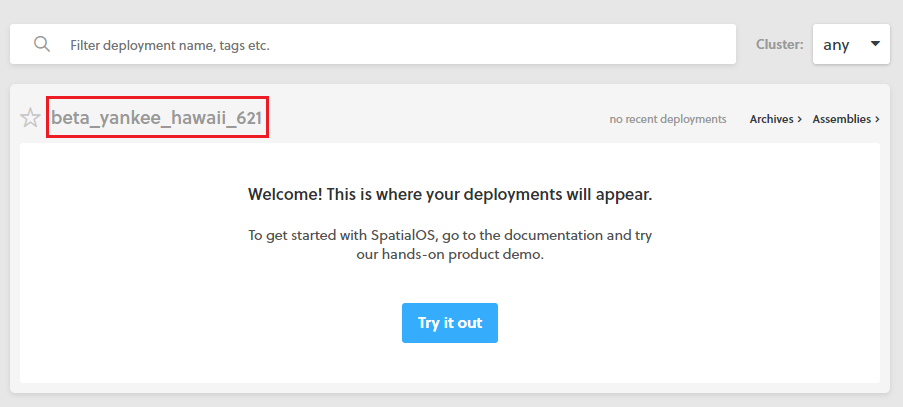
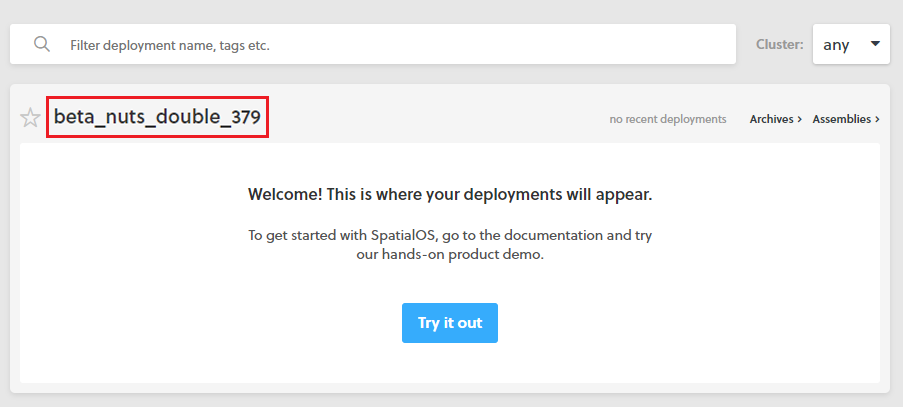
Added new Deployment Manager tutorial and several images.

Changed region(s): [[0.031, 0.2654, 0.3101, 0.3243]]

diff --git a/SpatialGDK/Documentation/content/tutorials/deployment-manager/tutorial-deploymentmgr-configure.md b/SpatialGDK/Documentation/content/tutorials/deployment-manager/tutorial-deploymentmgr-configure.md
@@ -1,0 +1,95 @@
+## Step 5: Configure the Deployment Manager
+
+There are two parts to configuring the Deployment Manager:
+
+* Edit the `spatialos.json` file.
+* Build the Deployment Manager.
+
+### Edit the spatialos.json file
+
+Make sure you are editing the `spatialos.json` in the Deployment Manager repository, and not the one in the Example Project repository. <br/>
+These are the same steps you took as part of [Get started 3: Set up the Example Project ]({{urlRoot}}/content/get-started/exampleproject#Launchaclouddeployment), but for the Deployment Manager, rather than the Example Project. 
+
+Every SpatialOS project has a spatialos.json file, so there may be several `spatialos.json` files on your machine. 
+
+When you signed up for SpatialOS, your account was automatically given a SpatialOS cloud organization name and a SpatialOS cloud project name, both of which are the same generated name.
+
+1. Find this name by going to the Console at <https://console.improbable.io>. The name should look something like beta_randomword_anotherword_randomnumber. In the example below, it’s beta_nuts_double_379. 
+   ![img]({{assetRoot}}assets/tutorial/project-name.png)
+   _Image: The SpatialOS Console with your SpaitalOS cloud project name highlighted._</br>
+
+
+1. In File Explorer, navigate to `\deployment-manager\config\` and open the `spatialos.json` file in a text editor of your choice.
+1. Replace the `projectName` field with the SpatialOS cloud project name shown in the Console. This tells SpatialOS which SpatialOS cloud project you intend to upload to.
+
+Your `spatialos.json` file should look like this: 
+
+```
+{
+    "configurationVersion": "0.1",
+    "projectName": "beta_nuts_double_379",
+    "schemaDescriptor": "../tmp/schema.descriptor",
+    "clientWorkers": [
+    ],
+    "serverWorkers": [
+      "deployment_manager.json"
+    ]
+  }
+```
+
+Where `beta_nuts_double_379` is your SpatialOS cloud project name. 
+
+### Build the Deployment Manager
+
+1. In File Explorer, navigate to your Deployment Manager repository
+1. Select **File.**
+1. Select **Open Windows Powershell**, then select **Open Windows Powershell as administrator.**
+1. In Powershell, run the following SpatialOS CLI commands: 
+	- `./build-nuget-packages.ps1`
+	- `./generate-servicce-account-token.ps1 <project name> <token life time in days>`
+
+Where `<project name>` is your SpatialOS project name and `<token life time in days>` is the the number of days you want your token to remain valid for. 
+
+### Edit the config.json file
+
+Next, you configure the Deployment Manager. 
+
+In this example, you must tell the Deployment Manager:
+
+*  the type of client-worker it can deploy - `UnrealClient` for this example, but this can be any client type you have set up for your project
+* the number of deployments you want it to allow to run concurrently - 2 for this example
+* which worker assembly to use for the deployments - the name for which you created in step 4, above.
+
+Leave the other configuration file settings to the default, for this example.  For more information about the other Deployment Manager configuration options, see the Deployment Manager [documentation on GitHub](link to readme). 
+
+To configure the Deployment Manager, you edit its configuration file. 
+To do this, 
+
+1. Navigate to the Deployment Manager repository you cloned in step 1.
+1. Using a text editor of your choice, open `\deployment-manager\DeploymentManager\config.json`. 
+
+In the `config.json`, you need to change the following lines: 
+
+- `"ClientType": "YourClient"`, to `"ClientType": "UnrealClient"`,
+- `"NumberOfDeployments": 1`, to `"NumberOfDeployments": 2`,
+- `"AssemblyName": "YourAssembly"`, to `"AssemblyName": "<assembly_name>)"`, where `<assembly_name>` is the name you gave to your assembly in [Step 4](#Step5ConfiguretheDeploymentManager) 
+
+Your `config.json` file should look like this: 
+
+```
+{}
+  "TokenLifetimeDays": 7,
+  "ClientType": "UnrealClient",
+  "MaxNumberOfClients": 100,
+  "DeploymentPrefix": "session",
+  "NumberOfDeployments": 2,
+  "AssemblyName": "<assembly_name>",
+  "DeploymentTags": [ "dev_login" ],
+  "RegionCode": "EU",
+  "DeploymentIntervalSeconds": 5
+}
+```
+
+When you are done, save and close your `config.json` file. 
+
+**Next**: [Launch a session-based cloud deployment]({{urlRoot}}/content/tutorials/deployment-manager/tutorial-deploymentmgr-launch)

diff --git a/SpatialGDK/Documentation/content/tutorials/deployment-manager/tutorial-deploymentmgr-play.md b/SpatialGDK/Documentation/content/tutorials/deployment-manager/tutorial-deploymentmgr-play.md
@@ -1,0 +1,67 @@
+## Step 7: Play your game
+
+1.  select **session_0** from the deployment list. This opens the deployment overview screen.
+2. select **LAUNCH** on the left of the page.
+![img]({{assetRoot}}assets/deployment-manager/deploymentmgr-consoleoverview.png)<br/>
+Image: *The SpatialOS Console with the game client* ***LAUNCH*** *button* ***Launch*** *highlighted.*<br/>
+3. select the **Launch** button that appears in the center of the page to open the [SpatialOS Launcher](https://docs.improbable.io/reference/13.7/shared/operate/launcher). 
+![img]({{assetRoot}}assets/deployment-manager/deploymentmgr-launch.png)<br/>
+_Image: *The SpatialOS Console* ***Launch a client*** *pop-up window._*
+
+The Launcher automatically downloads a game client for this deployment and runs it on your local machine.
+
+Once the game client has launched, you should see the Example Project start screen
+
+Select **QUICK JOIN** to join one of your sessions or select **BROWSE...** to choose from a list of currently running sessions. 
+
+The default game controls are listed below:
+
+| **Key Binding**   | **Function**             |
+| ----------------- | ------------------------ |
+| W,A,S,D           | Standard movement        |
+| Space             | Jump                     |
+| Shift             | Sprint                   |
+| Left ctrl         | Crouch                   |
+| Left click        | Fire                     |
+| Right click       | Weapon zoom/ iron sights |
+| Number keys 1 - 0 | Select weapon            |
+
+![img]({{assetRoot}}assets/deployment-manager/deploymentmgr-startscreen.png)_Image: *The Example Project* *start* *screen._*
+
+### Share your deployment
+
+To share your deployment: 
+
+1. Open the console and select your **session_0** deployment. 
+1. Select **Share** on the right-hand side of the screen to see the Share Application screen
+1. In the Share Application screen, accept the terms of service to activate the **Get Share URL** button<br/>
+![img]({{assetRoot}}assets/deployment-manager/deploymentmgr-share.png)<br/>
+_Image: The SpatialOS Console Share Application pop-up window, showing terms of service_<br/>
+1. After you have accepted the terms of service, you can send your Share Token URL to other people so they can try out your game. <br/>
+![img]({{assetRoot}}assets/deployment-manager/deploymentmgr-share2.png)<br/>
+_Image: The SpatialOS Console Share Application screen with terms of service accepted_<br/>
+
+## Troubleshooting
+
+<%(#Expandable title="I can see my deployments in my game client, but I can’t join any of them")%>
+
+If you can see your deployments when you select **BROWSE**  but the **QUICK JOIN** button is greyed out, you might need to add the `status_lobby` tag to the deployments. 
+
+To do this:
+
+1. Open the Console.
+2. Select the deployment you need to tag from the deployment list.
+3. On the right-hand side of the screen, under **Details**, select **+ add tag.**
+4. Enter `status_lobby` as the tag name. 
+5. Repeat this for each running deployment. 
+
+When you have done this, re-launch your game client and you should be able to join any of the deployments, provided the number of players has not exceeded the maximum.
+
+<%(/Expandable)%>
+
+Congratulations! You have successfully launched and shared a SpatialOS deployment using the Deployment Manager! 
+
+If you have an existing Unreal multiplayer project, follow our detailed [porting guide]({{urlRoot}}/content/tutorials/tutorial-porting-guide) to get it onto the GDK.
+
+If you want to start a project from scratch, follow our [Template guide](https://docs-staging.improbable.io/unreal/1.0/content/get-started/gdk-template) to set up a blank project using the GDK.
+

diff --git a/SpatialGDK/Documentation/content/tutorials/deployment-manager/tutorial-deploymentmgr-workers.md b/SpatialGDK/Documentation/content/tutorials/deployment-manager/tutorial-deploymentmgr-workers.md
@@ -1,0 +1,67 @@
+## Step 3: Build your worker assemblies 
+
+Before you build your worker assemblies, you need to edit the Example Project DefaultEngine.ini file.
+
+In File Explorer, navigate to `UnrealGDKExampleProject\Game\Config` and open `DefaultEngine.ini` in a text editor. 
+
+In your text editor, search for `bPreventAutoConnectWithLocator=False` and change this value to `True`. 
+
+This setting forces your game client to stay offline after being launched until you select a deployment or select Quick Join in the game. 
+
+```
+[/Script/SpatialGDK.SpatialGameInstance]
+bPreventAutoConnectWithLocator=True
+```
+
+Save and close `DefaultEngine.ini` once you have made your changes. 
+
+> **Note**: You must close the Unreal Editor before building your workers. If the Editor is open when you try to build your workers, the command will fail.
+
+There are two ways to build your worker assemblies (known as “building workers”):
+
+- Build your workers automatically using the `BuildProject.bat` script. </br>
+
+This script automatically builds both the server-workers and client-workers required to run your game in the cloud. It then compresses your workers and saves them as `.zip` files to the `UnrealGDKExampleProject\spatial\build\assembly\worker` directory. Use this script if you want to build server-workers and client-workers at the same time. 
+
+- Build your workers manually using the command line. </br>
+
+Use the command line when you want to build your server-workers and client-workers separately, or, if you want to build different worker configurations.
+
+**Note:** Building your workers can take a long time, regardless of which method you use. 
+
+<%(#Expandable title="Build your workers using `BuildProject.bat`")%>
+
+In File Explorer, navigate to the `UnrealGDKExampleProject` directory.
+
+Double click `BuildProject.bat`. This opens a command line window and automatically builds your client and server workers. 
+
+<%(/Expandable)%>
+
+<%(#Expandable title="Build your workers using terminal commands")%>
+
+In a terminal window, navigate to the `UnrealGDKExampleProject` directory.
+
+1. Build a server-worker assembly by running the following command: `Game\Plugins\UnrealGDK\SpatialGDK\Build\Scripts\BuildWorker.bat GDKShooterServer Linux Development GDKShooter.uproject`
+2. Build a client-worker assembly by running the following command: `Game\Plugins\UnrealGDK\SpatialGDK\Build\Scripts\BuildWorker.bat GDKShooter Win64 Development GDKShooter.uproject`
+
+<%(/Expandable)%>
+
+### Troubleshooting
+
+<%(#Expandable title="BuildProject.bat can’t find the path specified")%>
+
+If you receive the error `The system cannot find the path specified. Builds failed.`, open the `ProjectPaths.bat` file in a text editor and ensure that `PROJECT_PATH` and `GAME_NAME` are correct. `PROJECT_PATH` needs to be the name of your Unreal project folder (usually “Game”). `GAME_NAME` needs to be the same name as your Unreal Project `.uproject` file.  
+
+<%(/Expandable)%>
+
+## Step 4: Upload your worker assemblies
+
+Before launching a cloud deployment, you must upload your server-worker and client-worker assemblies to the cloud. To do this: 
+
+1. Open a terminal window and navigate to `\UnrealGDKExampleProject\spatial`.
+2. Run the following SpatialOS CLI command: `spatial cloud upload <assembly_name>`
+<br/>Where `<assembly_name>` is a name you create here for the upload (for example “myassembly”).
+
+Make a note of the `<assembly_name>` you create, as you will need it later. 
+
+**Next**: [Configure the Deployment Manager]({{urlRoot}}/content/tutorials/deployment-manager/tutorial-deploymentmgr-configure)

diff --git a/SpatialGDK/Documentation/content/tutorials/deployment-manager/tutorial-deploymentmgr-authentication.md b/SpatialGDK/Documentation/content/tutorials/deployment-manager/tutorial-deploymentmgr-authentication.md
@@ -1,0 +1,37 @@
+## Step 2: Generate a development authentication token
+
+**Note:** Development authentication tokens are for in-development testing only. They are for early-stage development so you don’t have to create your own game authentication service before testing your game clients. Do not include development authentication tokens in production projects. 
+
+To ensure that game clients are able to see all available deployments and can connect to them, you must generate a development authentication token and update your project’s code with the generated token. 
+
+<%(#Expandable title="What is development authentication?")%>
+While developing your game you may want to test game clients using connection authentication before you set up your own authentication and login servers. To facilitate this, Improbable hosts a development authentication service and a development login service for early-stage game development. This development authentication workflow provides you with a long-lived `DevelopmentAuthenticationToken` that you can hardcode into your game client.
+
+You should only use development authentication and login for testing during development of your game.You can find out more about the development authentication workflow in the [development authentication documentation](https://docs.improbable.io/reference/latest/shared/auth/development-authentication). 
+
+<%(/Expandable)%>
+
+To generate a development authentication token: 
+
+1. Open a terminal window and navigate to `\UnrealGDKExampleProject\spatial`
+2. Run the following SpatialOS CLI command: 
+
+`spatial project auth dev-auth-token create --description exampleProjectDeploymentToken`. 
+
+This creates a temporary authentication token that lasts for 30 days. For information about updating and refreshing development authentication tokens, refer to the [development authentication token](https://docs.improbable.io/reference/Latest/shared/auth/development-authentication) documentation. 
+
+In the terminal window, copy the string displayed after `tokenSecret` and make a note of it, you will use this token ID in the next step. This token is always 100 characters long and ends in an equals (=) sign.
+
+Step 4: Add your development authentication token to your project
+
+Next, you must add your development authentication token to the Example Project code.
+
+1. In File Explorer, navigate to UnrealGDKExampleProject\Game\Source\GDKShooter\Private\Deployments and double click `DeploymentsPlayerController.cpp` to open it in Visual Studio.
+1. In Visual studio with the  `DeploymentsPlayerController.cpp` file open, search for `PITParams->development_authentication_token_id` and replace “Replace Me with the `tokenSecret` string you copied in step 3. <br/>
+![img]({{assetRoot}}assets/deployment-manager/deploymentmgr-token.png)<br/>
+_Image: The PITParams->development_authentication_token_id code as shown in Visual Studio _<br/>
+1. Save your changes and launch a debug build of your project by pressing F5 on your keyboard or by selecting **Local Windows Debugger** on the Visual Studio toolbar. 
+
+If your project opens without errors you have successfully added the developer authentication token to your project. 
+
+**Next**: [Build your worker assemblies]({{urlRoot}}/content/tutorials/deployment-manager/tutorial-deploymentmgr-workers)

diff --git a/SpatialGDK/Documentation/content/tutorials/deployment-manager/tutorial-deploymentmgr-launch.md b/SpatialGDK/Documentation/content/tutorials/deployment-manager/tutorial-deploymentmgr-launch.md
@@ -1,0 +1,48 @@
+## Step 6: Launch a session-based cloud deployment
+
+Now you launch a cloud deployment using the Deployment Manager.
+
+To do this: 
+
+1. In File Explorer, navigate to your Deployment Manager repository.
+1. Select **File.**
+1. Select **Open Windows Powershell**, then select **Open Windows Powershell as administrator.**
+1. In Powershell, run the following SpatialOS CLI commands: 
+	* `./publish-linux-workers.ps1 <launch config path> <snapshot path>`
+	* `./cloud-launch.ps1 <assembly name> <deployment name>`
+
+Where:
+
+* `<launch config path>` is the file path to the` one_worker_test.json` file in the Example project
+* `<snapshot path>` is the path to the snapshot file you generated in the [Example Project set up guide](linkto)
+*  `<assembly name>` is the name you gave to your assembly in [Step 5: Upload your workers]
+*  `<deployment name>` is a name that you choose for your deployment. 
+	
+
+For example: 
+
+* `./publish-linux-workers.ps1 ..\UnrealGDKExampleProject\spatial\one_worker_test.json ..\UnrealGDKExampleProject\spatial\snapshots\default.snapshot`
+* `./cloud-launch.ps1 sessionassembly deploymentmanager`
+
+After running these commands, the SpatialOS CLI automatically deploys your project. The Deployment Overview Console page opens automatically after your project has successfully deployed.
+
+With the Console open, on the Deployment Overview page, select **Projects** to see a list of your deployments. You should see three deployments in this list: 
+
+* **deploymentmanager**
+* **session_0**
+* **session_1**
+
+![img]({{assetRoot}}assets/deployment-manager/deploymentmgr-consoledeployments.png)<br/>
+Image: *The SpatialOS Console Projects page,  with running deployments highlighted.*
+
+If you can see these three deployments, then you have successfully launched multiple deployments of the Example project using the Deployment Manager. By default, these deployment sessions run for 60 minutes before restarting automatically. 
+
+### Troubleshooting
+
+<%(#Expandable title="The PowerShell Cannot find path '\UnrealGDKExampleProject\spatial\one_worker_test.json' because it does not exist.")%>
+
+Make sure your Deployment Manager repository is in the same parent directory as your Example Project repository. If it is not, you have to edit the file paths in these Powershell commands to point to wherever your Example Project `one_worker_test.json` and `default.snapshot` files are located. 
+
+<%(/Expandable)%>
+
+**Next**: [Play your game]({{urlRoot}}/content/tutorials/deployment-manager/tutorial-deploymentmgr-play)

diff --git a/SpatialGDK/Documentation/content/tutorials/deployment-manager/tutorial-deploymentmgr-clone.md b/SpatialGDK/Documentation/content/tutorials/deployment-manager/tutorial-deploymentmgr-clone.md
@@ -1,0 +1,35 @@
+## Step 1: Clone the Deployment Manager repository
+
+First, clone the Deployment Manager repository. 
+
+Clone the Deployment Manager repository into the parent directory of your Example Project repository. For example: ![img]({{assetRoot}}assets/deployment-manager/deploymentmgr-directory.png)_<br/>Image: An example directory structure for the Deployment Manager and Example Project_<br/>
+
+If you do not clone the Deployment Manager into the parent directory of your Example Project repository then you will have to edit a number of .bat scripts later on in this tutorial.
+
+<%(#Expandable title="Using a terminal")%>
+
+1. Open a terminal window and navigate to the parent directory of your Example Project repository. 
+1. Run either of these commands to clone the Deployment Manager repository:
+
+|       |                                                              |
+| ----- | ------------------------------------------------------------ |
+| HTTPS | git clone https://github.com/improbable/deployment-manager.git|
+| SSH   | git clone git@github.com:improbable/deployment-manager.git |
+
+<%(/Expandable)%>
+
+<%(#Expandable title="Using Github Desktop")%>
+
+1. In GitHub Desktop, select **File >  Clone  Repository**.<br/>
+1. In the Clone a repository window, select **URL.**<br/>
+1. In the Repository URL field, enter this url: `https://github.com/improbable/deployment-manager.git`<br/>
+1. In the Local path field, type the file path to the parent directory of your Example Project repository, or select **Choose…** to navigate to the parent directory of your Example Project repository. <br/>
+1. Select **Clone**. <br/>
+![img](assets/screen-grabs/github-desktop.png)<br/>
+_Image: The Github Desktop Clone a repository window_<br/>
+
+<%(/Expandable)%>
+
+Your cloned directory should now have a path similar to `C:\Dev\deployment-manager\...`
+
+**Next**: [Generate a development authentication token]({{urlRoot}}/content/tutorials/deployment-manager/tutorial-deploymentmgr-authentication)

diff --git a/SpatialGDK/Documentation/toc.md b/SpatialGDK/Documentation/toc.md
@@ -6,6 +6,14 @@
         - [2: Get and build the GDK’s Unreal Engine Fork]({{urlRoot}}/content/get-started/build-unreal-fork)
         - [3: Set up the SpatialOS GDK Starter Template]({{urlRoot}}/content/get-started/gdk-template)
     - Tutorials
+        - Multiple deployments for session-based games
+            - [Introduction]({{urlRoot}}/content/tutorials/deployment-manager/tutorial-deploymentmgr-intro)
+            - [Step 1: Clone the Deployment Manager]({{urlRoot}}/content/tutorials/deployment-manager/tutorial-deploymentmgr-clone)
+            - [Step 2: Generate a development authentication token]({{urlRoot}}/content/tutorials/deployment-manager/tutorial-deploymentmgr-authentication)
+            - [Steps 3 & 4: Build your worker assemblies]({{urlRoot}}/content/tutorials/deployment-manager/tutorial-deploymentmgr-workers)
+            - [Step 5: Configure the Deployment Manager]({{urlRoot}}/content/tutorials/deployment-manager/tutorial-deploymentmgr-configure)
+            - [Step 6: Launch a session-based cloud deployment]({{urlRoot}}/content/tutorials/deployment-manager/tutorial-deploymentmgr-launch)
+            - [Step 7: Play your game]({{urlRoot}}/content/tutorials/deployment-manager/tutorial-deploymentmgr-play)
         - Multiserver Shooter tutorial
             - [Introduction]({{urlRoot}}/content/tutorials/multiserver-shooter/tutorial-multiserver-intro)
             - [Step 1: Set up]({{urlRoot}}/content/tutorials/multiserver-shooter/tutorial-multiserver-setup)

diff --git a/SpatialGDK/Documentation/content/tutorials/deployment-manager/tutorial-deploymentmgr-intro.md b/SpatialGDK/Documentation/content/tutorials/deployment-manager/tutorial-deploymentmgr-intro.md
@@ -1,0 +1,16 @@
+# Example Project: Multiple deployments for session-based games
+
+In this tutorial, you will use the [Deployment Manager](deployment manager doc) to launch multiple deployments of the Example Project in the cloud.</br>
+Multiple deployments of your game are useful for time-limited match-based games where you have multiple game sessions with a defined number of players, such as battle royales.</br>
+
+***NOTE:\*** You can only use the Deployment Manager in the cloud; it isn't available for local deployments."
+
+The tutorial guides you through cloning the SpatialOS Deployment Manager repository and configuring the Example Project to work with the Deployment Manager, before launching your deployments via the Deployment Manager.
+
+Before starting this guide you need to have completed the [Example Project set up guide.]({{urlRoot}}content/get-started/exampleproject) 
+
+![img]({{assetRoot}}assets/deployment-manager/deploymentmgr-deployments.png)<br/>
+_Image: The Example Project deployment list screen_<br/>
+
+**Next:** [Clone the Deployment Manager repository]({{urlRoot}}/content/tutorials/deployment-manager/tutorial-deploymentmgr-clone)
+
